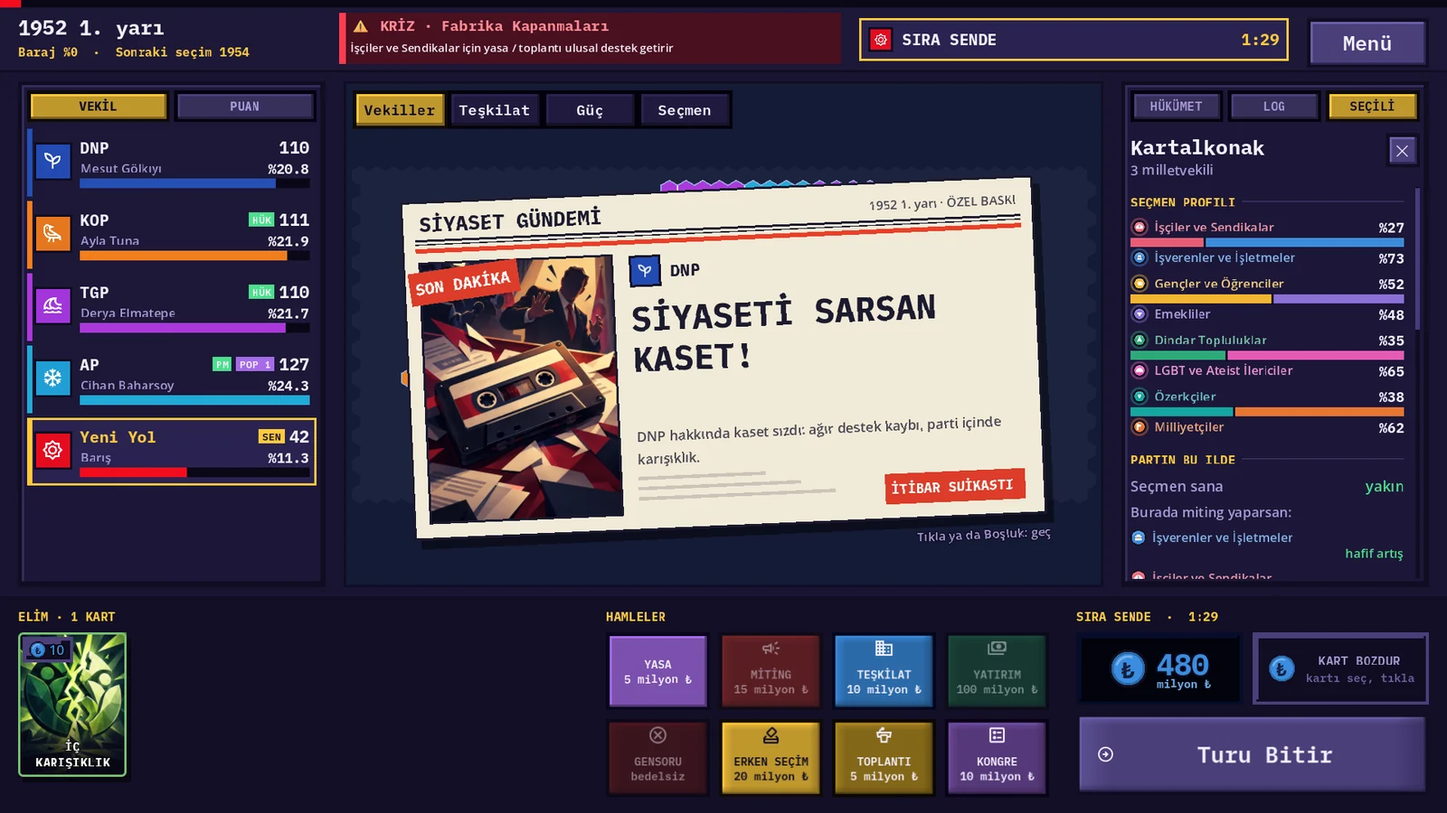
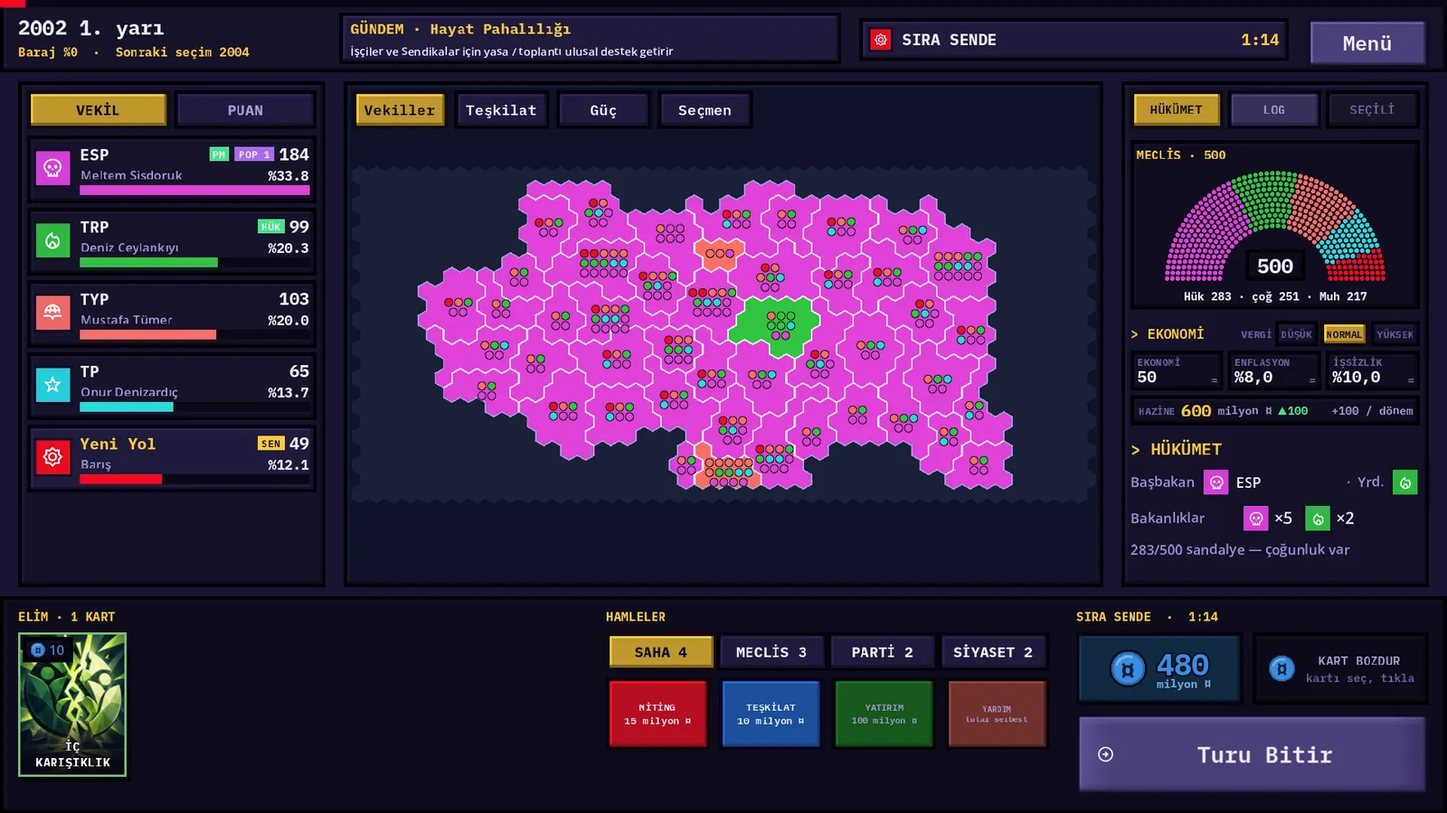
Site: yeni özelliklere göre baştan güncellendi (Türkiye haritası, afetler, seçmen grupları, yasalar, yeni ekran görüntüleri)

diff --git a/website/public/index.html b/website/public/index.html
@@ -4,9 +4,9 @@
 <meta charset="utf-8">
 <meta name="viewport" content="width=device-width, initial-scale=1, viewport-fit=cover">
 <title>PROJE: SİYASET OYUNU</title>
-<meta name="description" content="Arkadaşlarınla parti kur, seçmen gruplarını kazan, seçim gecesini izle, hükümeti kur. Android ve Windows için ücretsiz indir.">
+<meta name="description" content="Türkiye haritasında ya da rastgele bir ülkede parti kur, seçmen gruplarını kazan, afetlerde yardıma koş, seçim gecesini izle, hükümeti kur. Android ve Windows için ücretsiz indir.">
 <meta property="og:title" content="PROJE: SİYASET OYUNU">
-<meta property="og:description" content="Parti kur, seçim kazan, hükümeti kur. Android ve Windows için indir.">
+<meta property="og:description" content="81 il, 600 vekil, 8 seçmen grubu. Parti kur, seçim kazan, hükümeti kur. Android ve Windows için indir.">
 <meta property="og:image" content="/img/oyun.webp">
 <meta name="theme-color" content="#181430">
 <link rel="icon" href="/img/icon.svg" type="image/svg+xml">
@@ -23,6 +23,8 @@
   <span class="band-sub" id="band-version">Android · Windows</span>
   <nav class="band-nav" aria-label="Bölümler">
     <a href="#oyun">Oyun</a>
+    <a href="#turkiye">Türkiye</a>
+    <a href="#afetler">Afetler</a>
     <a href="#kartlar">Kartlar</a>
     <a href="#indir">İndir</a>
   </nav>
@@ -32,19 +34,19 @@
   <section class="hero">
     <canvas class="hero-map" id="hero-map" aria-hidden="true"></canvas>
     <div class="hero-inner">
-      <p class="eyebrow">&gt; ÖZEL YAYIN · 1950'DEN BUGÜNE</p>
+      <p class="eyebrow">&gt; ÖZEL YAYIN · 2000'DEN BUGÜNE</p>
       <h1 class="title"><span class="proj-stamp">PROJE:</span><span>SİYASET</span><span class="gold">OYUNU</span></h1>
-      <p class="lead">Arkadaşlarınla birer siyasetçi ol, partini kur, seçmen gruplarını kazan. Seçim gecesinde sandıklar açılırken nefesini tut, mecliste koalisyon pazarlığına otur.</p>
+      <p class="lead">Arkadaşlarınla ya da botlarla birer siyasetçi ol, partini kur, 81 ilde seçmen gruplarının gönlünü kazan. Afet vurduğunda yardıma koş, seçim gecesinde sandıklar açılırken nefesini tut, mecliste koalisyon pazarlığına otur.</p>
 
       <div class="downloads" id="indir">
-        <a class="dl dl-android" id="dl-apk" href="https://raw.githubusercontent.com/TriQue06/siyaset_oyunu_test_experimental/oyun-duzeltmeleri/builds/SiyasetOyunu.apk">
+        <a class="dl dl-android" id="dl-apk" href="https://raw.githubusercontent.com/TriQue06/siyaset_oyunu_test_experimental/main/builds/SiyasetOyunu.apk">
           <svg class="dl-icon" viewBox="0 0 24 24" aria-hidden="true"><path d="M7 2h10a2 2 0 0 1 2 2v16a2 2 0 0 1-2 2H7a2 2 0 0 1-2-2V4a2 2 0 0 1 2-2Zm0 3v13h10V5H7Zm4 14.5h2v1h-2v-1Z"/></svg>
           <span class="dl-text">
             <span class="dl-main">ANDROID İÇİN İNDİR</span>
             <span class="dl-meta" id="meta-apk">APK</span>
           </span>
         </a>
-        <a class="dl dl-windows" id="dl-exe" href="https://raw.githubusercontent.com/TriQue06/siyaset_oyunu_test_experimental/oyun-duzeltmeleri/builds/SiyasetOyunu-Windows.zip">
+        <a class="dl dl-windows" id="dl-exe" href="https://raw.githubusercontent.com/TriQue06/siyaset_oyunu_test_experimental/main/builds/SiyasetOyunu-Windows.zip">
           <svg class="dl-icon" viewBox="0 0 24 24" aria-hidden="true"><path d="M3 4h18a1 1 0 0 1 1 1v11a1 1 0 0 1-1 1h-7v2h3v2H7v-2h3v-2H3a1 1 0 0 1-1-1V5a1 1 0 0 1 1-1Zm1 2v9h16V6H4Z"/></svg>
           <span class="dl-text">
             <span class="dl-main">WINDOWS İÇİN İNDİR</span>
@@ -52,7 +54,7 @@
           </span>
         </a>
       </div>
-      <p class="dl-note" id="dl-note">Ücretsiz · Türkçe ve İngilizce · Botlarla tek başına ya da arkadaşlarınla çevrim içi</p>
+      <p class="dl-note" id="dl-note">Ücretsiz · Türkçe ve İngilizce · Botlarla tek başına ya da 8 kişiye kadar çevrim içi</p>
     </div>
     <canvas class="hero-parl" id="hero-parl" aria-hidden="true"></canvas>
   </section>
@@ -60,32 +62,61 @@
   <div class="ticker" aria-hidden="true">
     <span class="ticker-tag">SON DAKİKA</span>
     <div class="ticker-track">
-      <span>Gensoru reddedildi: hükümet ayakta · Muhalefet erken seçim istiyor · Kaset skandalı siyaseti sarstı · Kongrede sürpriz: yeni genel başkan belli oldu · Hazineye vergi geliri girdi · Koalisyonda çatlak büyüyor · </span>
-      <span>Gensoru reddedildi: hükümet ayakta · Muhalefet erken seçim istiyor · Kaset skandalı siyaseti sarstı · Kongrede sürpriz: yeni genel başkan belli oldu · Hazineye vergi geliri girdi · Koalisyonda çatlak büyüyor · </span>
+      <span>Deprem: 3 ilde yıkım, partiler yardım için yarışıyor · Meclis erken seçim önergesini kabul etti · Kaset skandalı siyaseti sarstı · Anayasa değişti: baraj düştü · Emekliler mitinge akın etti · Gensoru reddedildi: hükümet ayakta · Hazineye vergi geliri girdi · </span>
+      <span>Deprem: 3 ilde yıkım, partiler yardım için yarışıyor · Meclis erken seçim önergesini kabul etti · Kaset skandalı siyaseti sarstı · Anayasa değişti: baraj düştü · Emekliler mitinge akın etti · Gensoru reddedildi: hükümet ayakta · Hazineye vergi geliri girdi · </span>
     </div>
   </div>
 
   <section class="stats" aria-label="Oyun bir bakışta">
-    <div class="stat" data-reveal="pop"><span class="stat-n" data-count="500">500</span><span class="stat-l">sandalyeli meclis</span></div>
+    <div class="stat" data-reveal="pop"><span class="stat-n" data-count="81">81</span><span class="stat-l">il, gerçek Türkiye haritası</span></div>
+    <div class="stat" data-reveal="pop"><span class="stat-n" data-count="600">600</span><span class="stat-l">gerçek dağılımlı vekil</span></div>
     <div class="stat" data-reveal="pop"><span class="stat-n" data-count="8">8</span><span class="stat-l">seçmen grubu</span></div>
-    <div class="stat" data-reveal="pop"><span class="stat-n" data-count="8">8</span><span class="stat-l">oyuncuya kadar oda</span></div>
-    <div class="stat" data-reveal="pop"><span class="stat-n" data-count="39">39</span><span class="stat-l">parti logosu</span></div>
+    <div class="stat" data-reveal="pop"><span class="stat-n" data-count="5">5</span><span class="stat-l">afet türü</span></div>
   </section>
 
   <div id="oyun" class="features">
 
     <article class="feature" data-reveal="left">
-      <figure class="shot"><img src="/img/oyun.webp" alt="Oyun ekranı: solda parti skor tablosu, ortada altıgen il haritası, sağda meclis ve hükümet, altta eldeki kartlar ve hamleler" loading="lazy" width="1920" height="1080"></figure>
+      <figure class="shot"><img src="/img/oyun.webp" alt="Oyun ekranı: solda partiler, ortada altıgen Türkiye haritası ve vekil noktaları, sağda meclis, ekonomi ve hükümet, altta kartlar ve hamleler" loading="lazy" width="1600" height="900"></figure>
       <div class="copy">
         <p class="kicker">&gt; HABER STÜDYOSU</p>
         <h2>Ülke senin haritan</h2>
-        <p>Her tur sıra sana geldiğinde miting yap, il il teşkilat kur, yasa sun ya da elindeki kartı oyna. Harita her hamlede canlanır; hangi ilde kimin güçlü olduğunu vekil noktalarından okursun.</p>
-        <ul class="ticks"><li>Miting, teşkilat, yatırım, yasa, toplantı</li><li>Vekiller, teşkilat, güç ve seçmen katmanları</li><li>Kararlarının sonucu canlı olay akışında</li></ul>
+        <p>Sıra sana gelince saha, meclis, parti ve siyaset sekmelerinden hamleni seç: miting yap, teşkilat kur, yatırım götür, yasa sun ya da elindeki kartı oyna. Her hamle haritada ve canlı olay akışında karşılık bulur.</p>
+        <ul class="ticks"><li>Miting, teşkilat, yatırım, afet yardımı, yasa, gensoru, erken seçim</li><li>Vekiller, teşkilat, güç ve seçmen katmanları</li><li>Ekonomi, hazine ve hükümet bir bakışta</li></ul>
+      </div>
+    </article>
+
+    <article class="feature flip" id="turkiye" data-reveal="right">
+      <figure class="shot"><img src="/img/turkiye.webp" alt="Altıgen Türkiye haritası: fare İstanbul'un üstündeyken yalnız İstanbul'un 96 vekil noktası görünüyor" loading="lazy" width="1600" height="900"></figure>
+      <div class="copy">
+        <p class="kicker">&gt; YENİ · TÜRKİYE HARİTASI</p>
+        <h2>81 il, 600 vekil</h2>
+        <p>Lobide haritayı seç: her oyunda yeniden üretilen rastgele bir ülke ya da gerçek il sınırlarından altıgenlere dökülmüş Türkiye. Türkiye haritasında her ilin vekil sayısı güncel dağılımla sabittir; istersen üstüne ulusal liste ekleyebilirsin.</p>
+        <ul class="ticks"><li>İstanbul, Ankara, İzmir gibi kalabalık illerin vekilleri üstüne gelince açılır</li><li>Rastgele haritada il sayısı, vekil sayısı ve harita tohumu senin elinde</li></ul>
+      </div>
+    </article>
+
+    <article class="feature" data-reveal="left">
+      <figure class="shot"><img src="/img/secmen.webp" alt="Seçmen katmanı: İşçiler ve Sendikalar grubunun illere göre yoğunluğu" loading="lazy" width="1600" height="900"></figure>
+      <div class="copy">
+        <p class="kicker">&gt; SEÇMEN GRUPLARI</p>
+        <h2>Kime hitap ediyorsun?</h2>
+        <p>Seçmen dört ayrımda sekiz gruba bölünür: işçi ve işveren, genç ve emekli, dindar ve ilerici, özerkçi ve milliyetçi. Her ilin dağılımı farklıdır. Bir grubun gözüne girdiğinde oyları başka partilerden ve kararsızlardan sana kayar.</p>
+        <ul class="ticks"><li>Seçmen haritası grubun hangi illerde güçlü olduğunu gösterir</li><li>Parti panelinde her gruptaki oy payın ve hitabın</li></ul>
       </div>
     </article>
 
     <article class="feature flip" data-reveal="right">
-      <figure class="shot"><img src="/img/secim.webp" alt="Seçim gecesi: sandıklar açılırken boyanan harita, oy oranı çubukları ve dolan meclis" loading="lazy" width="1920" height="1080"></figure>
+      <figure class="shot"><img src="/img/miting.webp" alt="Miting odağı paneli: teşkilat seviyesine göre seçilen seçmen grupları" loading="lazy" width="1600" height="900"></figure>
+      <div class="copy">
+        <p class="kicker">&gt; MEYDANLAR</p>
+        <h2>Mitingi istediğin kadar yap</h2>
+        <p>Miting için teşkilat şart değil, ama teşkilat mitingi büyütür. Teşkilat seviyen kadar seçmen grubunu odak seçersin; meydan o grupların sesini daha çok duyar. Etki ilin nüfusuyla ölçeklenir.</p>
+      </div>
+    </article>
+
+    <article class="feature" data-reveal="left">
+      <figure class="shot"><img src="/img/secim.webp" alt="Seçim gecesi: sayım sürerken boyanan harita, oy oranları ve dolan meclis" loading="lazy" width="1600" height="900"></figure>
       <div class="copy">
         <p class="kicker red">&gt; SEÇİM GECESİ · ÖZEL YAYIN</p>
         <h2>Sandıklar açılıyor</h2>
@@ -93,17 +124,64 @@
       </div>
     </article>
 
-    <article class="feature" data-reveal="left">
-      <figure class="shot"><img src="/img/hukumet.webp" alt="Hükümet kurma ekranı: ortaklar, makam dağılımı ve meclis aritmetiği" loading="lazy" width="1920" height="1080"></figure>
+    <article class="feature flip" data-reveal="right">
+      <figure class="shot"><img src="/img/oylama.webp" alt="Meclis oylaması: harita ile meclis diyagramı yer değiştirmiş, vekiller oy veriyor" loading="lazy" width="1600" height="900"></figure>
       <div class="copy">
-        <p class="kicker">&gt; KOALİSYON MASASI</p>
-        <h2>Hükümeti sen kur</h2>
-        <p>En çok vekili çıkaran görev alır ama çoğunluk her zaman tek başına gelmez. Ortak seç, Başbakanlıktan bakanlıklara makamları dağıt, sonra meclisten güvenoyu iste. Bakanlıkların devlet hazinesinden payını da belirler.</p>
+        <p class="kicker">&gt; GENEL KURUL</p>
+        <h2>Oylamada kamera meclise döner</h2>
+        <p>Yasa, gensoru, erken seçim ya da anayasa oylaması açıldığında meclis diyagramı ekranın ortasına gelir. EVET, ÇEKİMSER, HAYIR: her parti oyunu verir, sonuç sandalye sandalye belli olur.</p>
       </div>
     </article>
 
+    <article class="feature" data-reveal="left">
+      <figure class="shot"><img src="/img/yasa.webp" alt="Yasa teklifi paneli: grup yasası, vergi ve anayasa sekmeleri" loading="lazy" width="1600" height="900"></figure>
+      <div class="copy">
+        <p class="kicker">&gt; YASAMA</p>
+        <h2>Grup yasası, vergi, anayasa</h2>
+        <p>Bir seçmen grubuna yasa çıkar, vergi kademesini değiştir ya da anayasayı yeniden yaz. Anayasa değişikliği üçte iki çoğunluk ister ama oyunun kurallarını oynarken değiştirir: seçim barajı, seçim aralığı, sayım yöntemi, ittifaklar.</p>
+        <ul class="ticks"><li>D'Hondt, Hare kotası ya da kazanan hepsini alır</li><li>Kabul edilmese de sunulan yasa gruba mesaj verir</li></ul>
+      </div>
+    </article>
+
+    <article class="feature flip" data-reveal="right">
+      <figure class="shot"><img src="/img/hukumet.webp" alt="Hükümet kurma ekranı: ortaklar ve makam dağılımı" loading="lazy" width="1600" height="900"></figure>
+      <div class="copy">
+        <p class="kicker">&gt; KOALİSYON MASASI</p>
+        <h2>Hükümeti sen kur</h2>
+        <p>En çok vekili çıkaran görev alır ama çoğunluk her zaman tek başına gelmez. Ortak seç, Başbakanlıktan bakanlıklara makamları dağıt, sonra meclisten güvenoyu iste. Makamlar devlet hazinesinden pay ve oyun sonu puanı demektir.</p>
+      </div>
+    </article>
+
+    <article class="feature" data-reveal="left">
+      <figure class="shot"><img src="/img/ekonomi.webp" alt="Vergi politikası paneli: kademelerin hazineye ve seçmene etkisi" loading="lazy" width="1600" height="900"></figure>
+      <div class="copy">
+        <p class="kicker">&gt; HAZİNE VE KASA</p>
+        <h2>Para el değiştirir</h2>
+        <p>Ekonomi, enflasyon ve işsizlik her tur değişir. Vergiyi artırırsan hazine dolar ama seçmen kızar. İktidardaysan illere yatırım götürürsün; yatırım hem ili hem oradaki seçmen gruplarını kazandırır; devletin parasını partin için harcamak ise soruşturma kapısını açar.</p>
+      </div>
+    </article>
+  </div>
+
+  <section class="disasters" id="afetler" aria-labelledby="afet-baslik">
+    <p class="kicker red center">&gt; YENİ · AFET MASASI</p>
+    <h2 id="afet-baslik" class="center">Ülke sarsıldığında kim yanında?</h2>
+    <p class="center narrow">Doğa da siyasete karışır. Sel, heyelan ve çığ tek bir ili, orman yangını ve deprem birkaç komşu ili birden vurur; haber gazete manşetiyle gelir. Yardım tutarını sen belirlersin: muhalefet parti kasasından, hükümet devlet hazinesinden de öder. Yardım bölgede hemen karşılık bulur.</p>
+    <div class="afet-row" data-reveal="fan">
+      <figure><img src="/img/afet/deprem.webp" alt="Deprem" loading="lazy" width="384" height="522"><figcaption>DEPREM</figcaption></figure>
+      <figure><img src="/img/afet/sel.webp" alt="Sel" loading="lazy" width="384" height="522"><figcaption>SEL</figcaption></figure>
+      <figure><img src="/img/afet/yangin.webp" alt="Orman yangını" loading="lazy" width="384" height="522"><figcaption>YANGIN</figcaption></figure>
+      <figure><img src="/img/afet/heyelan.webp" alt="Heyelan" loading="lazy" width="384" height="522"><figcaption>HEYELAN</figcaption></figure>
+      <figure><img src="/img/afet/cig.webp" alt="Çığ" loading="lazy" width="384" height="522"><figcaption>ÇIĞ</figcaption></figure>
+    </div>
+    <div class="duo">
+      <figure class="shot" data-reveal="left"><img src="/img/afet.webp" alt="Afet gazetesi: Deprem, 3 ilde yıkım manşeti" loading="lazy" width="1600" height="900"></figure>
+      <figure class="shot" data-reveal="right"><img src="/img/afet_yardim.webp" alt="Afet yardımı paneli: yardımın parti kasası ve devlet hazinesinden karşılanması" loading="lazy" width="1600" height="900"></figure>
+    </div>
+  </section>
+
+  <div class="features">
     <article class="feature flip" data-reveal="toss">
-      <figure class="shot"><img src="/img/gazete.webp" alt="Olay gazetesi: Siyaseti sarsan kaset manşeti oyun ekranının ortasına düşmüş" loading="lazy" width="1920" height="1080"></figure>
+      <figure class="shot"><img src="/img/gazete.webp" alt="Olay gazetesi: Siyaseti sarsan kaset manşeti oyun ekranının ortasına düşmüş" loading="lazy" width="1600" height="900"></figure>
       <div class="copy">
         <p class="kicker red">&gt; SON DAKİKA</p>
         <h2>Manşetlere taşınan anlar</h2>
@@ -112,44 +190,50 @@
     </article>
 
     <article class="feature" data-reveal="left">
-      <figure class="shot"><img src="/img/kongre.webp" alt="Kongre gecesi: delegelerin oyları canlı sayılıyor" loading="lazy" width="1920" height="1080"></figure>
+      <figure class="shot"><img src="/img/siyasetci.webp" alt="Siyasetçi profili: kökeni seç, Türkiye haritasında memleketini işaretle" loading="lazy" width="1600" height="900"></figure>
       <div class="copy">
-        <p class="kicker">&gt; KONGRE GECESİ</p>
-        <h2>Koltuğun sağlam mı?</h2>
-        <p>Genel başkanlık ömür boyu değil. Kongre gecesi delegeler oy verir; kazanırsan koltuğunu korursun, kaybedersen partinde üye olarak devam edip kongre istemeyi beklersin.</p>
+        <p class="kicker">&gt; SİYASETÇİNİ YARAT</p>
+        <h2>Nereden geliyorsun?</h2>
+        <p>Önce siyasetçini yarat: adını, kökenini ve memleketini seç. Sendikacı mı, iş insanı mı, akademisyen mi, belediye başkanı mı? Geçmişin sana belli gruplarda ve memleketinde avantaj sağlar.</p>
       </div>
     </article>
 
     <article class="feature flip" data-reveal="right">
-      <figure class="shot"><img src="/img/ekonomi.webp" alt="Ekonomi paneli ve yatırımın finansmanı: devlet hazinesi ile parti kasası arasında paylaşım" loading="lazy" width="1920" height="1080"></figure>
-      <div class="copy">
-        <p class="kicker">&gt; HAZİNE VE KASA</p>
-        <h2>Para el değiştirir</h2>
-        <p>Vergiyi artırırsan hazine dolar ama seçmen kızar. İktidardaysan illere yatırım götürürsün; devletin parasını partin için harcamak ise soruşturma kapısını açar.</p>
-      </div>
-    </article>
-
-    <article class="feature" data-reveal="left">
-      <figure class="shot"><img src="/img/parti.webp" alt="Parti kurma ekranı: parti adı, logo, renk ve çekirdek seçmen grupları" loading="lazy" width="1920" height="1080"></figure>
+      <figure class="shot"><img src="/img/parti.webp" alt="Parti kurma ekranı: parti adı, ikon, renk ve çekirdek seçmen grupları" loading="lazy" width="1600" height="900"></figure>
       <div class="copy">
         <p class="kicker">&gt; PARTİNİ KUR</p>
         <h2>Her oyun yeni bir parti</h2>
-        <p>Adını koy, 39 logodan birini ve rengini seç, iki çekirdek seçmen grubunu belirle. İşçiler mi işverenler mi, gençler mi emekliler mi? Kimi kazanırsan karşıtını biraz kaybedersin.</p>
+        <p>Adını koy, ikonunu ve rengini seç, iki çekirdek seçmen grubunu belirle. Çekirdek gruplarda daha önde başlar, onlarda daha hızlı büyürsün. Oda kurucusu botların parti adlarını ve liderlerini de düzenleyebilir.</p>
       </div>
     </article>
   </div>
 
+  <section class="more" aria-labelledby="daha-baslik">
+    <p class="kicker center">&gt; DAHA FAZLASI</p>
+    <h2 id="daha-baslik" class="center">Gündem hiç durmuyor</h2>
+    <div class="grid" data-reveal="pop">
+      <div class="tile"><h3>Kongre gecesi</h3><p>Genel başkanlık ömür boyu değil. Delegeler oy verir; kaybedersen partinde üye olarak sıranı beklersin.</p></div>
+      <div class="tile"><h3>Gensoru ve erken seçim</h3><p>Muhalefet hükümeti düşürmeye ya da sandığı öne çekmeye çalışır; seçim takvimi buna göre kayar.</p></div>
+      <div class="tile"><h3>İttifaklar</h3><p>Anayasa izin veriyorsa partiler ittifak kurup barajı birlikte aşar.</p></div>
+      <div class="tile"><h3>Partiler bölünür</h3><p>İç karışıklık büyürse parti ikiye ayrılır; ayrılanlar zamanla geri dönebilir.</p></div>
+      <div class="tile"><h3>Botlar ve çevrimdışı oyun</h3><p>İnternet olmadan botlara karşı oyna, oyunu kaydet, kaldığın yerden devam et. ESC ile oyun durur.</p></div>
+      <div class="tile"><h3>Oda kuralları</h3><p>Baraj, seçim aralığı ve sayısı, tur süresi, oylama süresi, rastgele yeni partiler: hepsi lobide.</p></div>
+    </div>
+  </section>
+
   <section class="cards" id="kartlar" aria-labelledby="kartlar-baslik">
     <p class="kicker center">&gt; ELİNDEKİ KOZLAR</p>
     <h2 id="kartlar-baslik" class="center">Kartını oyna, dengeleri değiştir</h2>
-    <p class="center narrow">Karalama, kaset, iç karışıklık, vekil transferi, bağış kampanyası... Her kartın bir bedeli ve bir hedefi var.</p>
+    <p class="center narrow">Karalama, kaset, iç karışıklık, vekil transferi, bağış kampanyası... Her kartın bir bedeli ve bir hedefi var. İşine yaramayan kartı bozdurursan bedelinin yarısı kasana döner.</p>
     <div class="fan" data-reveal="fan">
       <img src="/img/cards/kaset.webp" alt="Kaset kartı" loading="lazy" width="384" height="576">
       <img src="/img/cards/karalama.webp" alt="Karalama kartı" loading="lazy" width="384" height="576">
       <img src="/img/cards/vekil_guclu.webp" alt="Güçlü vekil çalma kartı" loading="lazy" width="384" height="576">
-      <img src="/img/cards/populizm.webp" alt="Popülizm kartı" loading="lazy" width="384" height="576">
+      <img src="/img/cards/populizm.webp" alt="Popülizm bonusu kartı" loading="lazy" width="384" height="576">
       <img src="/img/cards/bagis.webp" alt="Bağış kampanyası kartı" loading="lazy" width="384" height="576">
+      <img src="/img/cards/bagis_kampanyasi_guclu.webp" alt="Büyük bağış kampanyası kartı" loading="lazy" width="384" height="576">
       <img src="/img/cards/isyan.webp" alt="İç karışıklık kartı" loading="lazy" width="384" height="576">
+      <img src="/img/cards/bonus_kart.webp" alt="Bonus kart" loading="lazy" width="384" height="576">
       <img src="/img/cards/kart_calma.webp" alt="Kart çalma kartı" loading="lazy" width="384" height="576">
     </div>
   </section>
@@ -157,10 +241,10 @@
   <section class="final" data-reveal="pop">
     <h2>Meclis toplanıyor. <span class="gold">Yerini al.</span></h2>
     <div class="downloads">
-      <a class="dl dl-android" href="https://raw.githubusercontent.com/TriQue06/siyaset_oyunu_test_experimental/oyun-duzeltmeleri/builds/SiyasetOyunu.apk" data-mirror="apk">
+      <a class="dl dl-android" href="https://raw.githubusercontent.com/TriQue06/siyaset_oyunu_test_experimental/main/builds/SiyasetOyunu.apk" data-mirror="apk">
         <span class="dl-text"><span class="dl-main">ANDROID · APK</span><span class="dl-meta" data-meta="apk">&nbsp;</span></span>
       </a>
-      <a class="dl dl-windows" href="https://raw.githubusercontent.com/TriQue06/siyaset_oyunu_test_experimental/oyun-duzeltmeleri/builds/SiyasetOyunu-Windows.zip" data-mirror="exe">
+      <a class="dl dl-windows" href="https://raw.githubusercontent.com/TriQue06/siyaset_oyunu_test_experimental/main/builds/SiyasetOyunu-Windows.zip" data-mirror="exe">
         <span class="dl-text"><span class="dl-main">WINDOWS · EXE</span><span class="dl-meta" data-meta="exe">&nbsp;</span></span>
       </a>
     </div>

diff --git a/website/public/app.js b/website/public/app.js
@@ -80,13 +80,32 @@
   let visible = true;
   new IntersectionObserver((es) => (visible = es[0].isIntersecting)).observe(map);
 
+  // Türkiye haritası (oyundaki altıgen veri, /data/turkiye.json); gelmezse rastgele kıta.
+  let turkey = null;
+  fetch("/data/turkiye.json").then((r) => r.json()).then((d) => { turkey = d; rebuild(); }).catch(() => {});
+
   function buildMap() {
     const w = map.clientWidth, h = map.clientHeight;
     map.width = w * dpr; map.height = h * dpr;
+    cells = [];
+    if (turkey) {
+      // Haritayı ekrana sığdır: geniş ekranda genişliğin %92'si, dar ekranda yüksekliğe göre.
+      const r = Math.min((w * 0.92) / (Math.sqrt(3) * (turkey.cols + 0.5)), (h * 0.8) / (1.5 * turkey.rows + 0.5));
+      const cw = Math.sqrt(3) * r;
+      const ox = (w - cw * (turkey.cols + 0.5)) / 2, oy = (h - 1.5 * r * turkey.rows) / 2;
+      seeds = turkey.seats.map(() => ({ c: PARTY[(Math.random() * PARTY.length) | 0] }));
+      turkey.cells.forEach((p, i) => {
+        if (p < 0) return;
+        const col = i % turkey.cols, row = (i / turkey.cols) | 0;
+        const x = ox + cw * (col + 0.5 * (row & 1) + 0.5), y = oy + 1.5 * r * row + r;
+        const nx = (x / w - 0.5) * 2, ny = (y / h - 0.5) * 2;
+        cells.push({ x, y, r, seed: seeds[p], at: Math.random() * 2500 + Math.hypot(nx, ny) * 3000 });
+      });
+      return;
+    }
     const r = Math.max(9, Math.min(16, w / 90));
     const cw = Math.sqrt(3) * r;
     seeds = Array.from({ length: 22 }, () => ({ x: Math.random() * w, y: Math.random() * h, c: PARTY[(Math.random() * PARTY.length) | 0] }));
-    cells = [];
     for (let row = 0, y = r; y < h + r; row++, y += r * 1.5) {
       for (let x = (row % 2 ? cw / 2 : 0); x < w + cw; x += cw) {
         // Kıta silueti: kenarlara doğru seyrelir.
@@ -108,8 +127,9 @@
     ctx.closePath();
   }
 
-  // Meclis yarım dairesi: 500 nokta, partilere bölünmüş, soldan sağa dolar.
-  const SEATS = [137, 106, 97, 89, 44, 25, 2];
+  // Meclis yarım dairesi: 600 nokta, partilere bölünmüş, soldan sağa dolar.
+  const SEATS = [164, 128, 116, 107, 53, 30, 2];
+  const TOTAL = SEATS.reduce((a, b) => a + b, 0);
   let slots = [];
   function buildParl() {
     const w = parl.clientWidth, h = parl.clientHeight;
@@ -117,8 +137,8 @@
     const rows = 11, inner = w * 0.16, outer = w * 0.48;
     const radii = Array.from({ length: rows }, (_, i) => inner + (outer - inner) * i / (rows - 1));
     const sum = radii.reduce((a, b) => a + b, 0);
-    const counts = radii.map((rr) => Math.round(500 * rr / sum));
-    counts[rows - 1] += 500 - counts.reduce((a, b) => a + b, 0);
+    const counts = radii.map((rr) => Math.round(TOTAL * rr / sum));
+    counts[rows - 1] += TOTAL - counts.reduce((a, b) => a + b, 0);
     slots = [];
     radii.forEach((rr, ri) => { for (let j = 0; j < counts[ri]; j++) slots.push({ a: Math.PI * (1 - (j + 0.5) / counts[ri]), rr }); });
     slots.sort((p, q) => q.a - p.a);
@@ -151,7 +171,7 @@
       pc.setTransform(dpr, 0, 0, dpr, 0, 0);
       pc.clearRect(0, 0, w, h);
       const shown = reduce ? slots.length : Math.min(slots.length, Math.floor(t / 7));
-      const dot = w / 140;
+      const dot = w / 155;
       for (let i = 0; i < slots.length; i++) {
         const s = slots[i];
         pc.beginPath();

diff --git a/website/public/style.css b/website/public/style.css
@@ -155,12 +155,40 @@ a { color: var(--gold); }
 .js-reveal [data-reveal="toss"]:not(.in) { opacity: 0; transform: translate(-80px, 80px) rotate(-10deg) scale(1.08); }
 .js-reveal [data-reveal="toss"].in { transition: opacity .35s ease, transform .55s cubic-bezier(.2, 1.2, .35, 1); }
 
+/* --- Afetler ---------------------------------------------------------------- */
+.disasters { max-width: 1240px; margin: 120px auto 0; padding: 72px 16px; border-block: 3px solid var(--ink);
+  background: linear-gradient(180deg, #2a1420 0%, var(--bg) 100%); }
+.disasters h2, .more h2 { font-family: var(--mono); font-weight: 700; font-size: clamp(28px, 3.6vw, 44px); line-height: 1.1; margin: 0 0 16px; text-wrap: balance; }
+.afet-row { display: grid; grid-template-columns: repeat(5, minmax(0, 1fr)); gap: 16px; max-width: 1000px; margin: 40px auto 0; }
+.afet-row figure { margin: 0; background: var(--ink); padding: 4px; box-shadow: 6px 6px 0 var(--ink); transition: transform .5s cubic-bezier(.2, .9, .3, 1.2); }
+.afet-row figure:nth-child(odd) { transform: rotate(-2deg); }
+.afet-row figure:nth-child(even) { transform: rotate(2deg) translateY(10px); }
+.afet-row figure:hover { transform: translateY(-6px) scale(1.04); z-index: 2; }
+.afet-row img { width: 100%; height: auto; aspect-ratio: 384 / 522; object-fit: cover; }
+.afet-row figcaption { font-family: var(--mono); font-weight: 700; font-size: 13px; letter-spacing: .1em; text-align: center; padding: 6px 0 2px; color: #ff7a66; }
+.js-reveal .afet-row[data-reveal]:not(.in) figure { opacity: 0; transform: translateY(40px) rotate(0); }
+.js-reveal .afet-row figure { transition: opacity .6s ease, transform .7s cubic-bezier(.2, .9, .3, 1.2); }
+.afet-row.in figure:nth-child(2) { transition-delay: .08s; } .afet-row.in figure:nth-child(3) { transition-delay: .16s; }
+.afet-row.in figure:nth-child(4) { transition-delay: .24s; } .afet-row.in figure:nth-child(5) { transition-delay: .32s; }
+.duo { display: grid; grid-template-columns: repeat(2, minmax(0, 1fr)); gap: 32px; margin-top: 56px; }
+
+/* --- Daha fazlası ------------------------------------------------------------- */
+.features + .more, .more { max-width: 1240px; margin: 0 auto; padding: 100px 16px 0; }
+.grid { display: grid; grid-template-columns: repeat(3, minmax(0, 1fr)); gap: 20px; margin-top: 36px; }
+.tile { background: var(--panel); padding: 20px 22px; border: 3px solid var(--ink);
+  box-shadow: inset 2px 2px 0 var(--panel-light), inset -2px -2px 0 var(--panel-dark), 6px 6px 0 var(--ink); }
+.tile h3 { font-family: var(--mono); font-size: 17px; color: var(--gold); margin: 0 0 8px; }
+.tile p { margin: 0; color: var(--muted); font-size: 15px; }
+
 @media (max-width: 860px) {
   .feature, .feature.flip { grid-template-columns: 1fr; gap: 24px; }
   .feature.flip .shot { order: 0; }
   .features { gap: 72px; }
   .stats { grid-template-columns: repeat(2, minmax(0, 1fr)); }
   .band-sub { display: none; }
+  .afet-row { grid-template-columns: repeat(3, minmax(0, 1fr)); }
+  .duo, .grid { grid-template-columns: 1fr; }
+  .band-nav a:nth-child(n+2):nth-child(-n+4) { display: none; }
 }
 @media (max-width: 560px) {
   .downloads { grid-template-columns: 1fr; }
